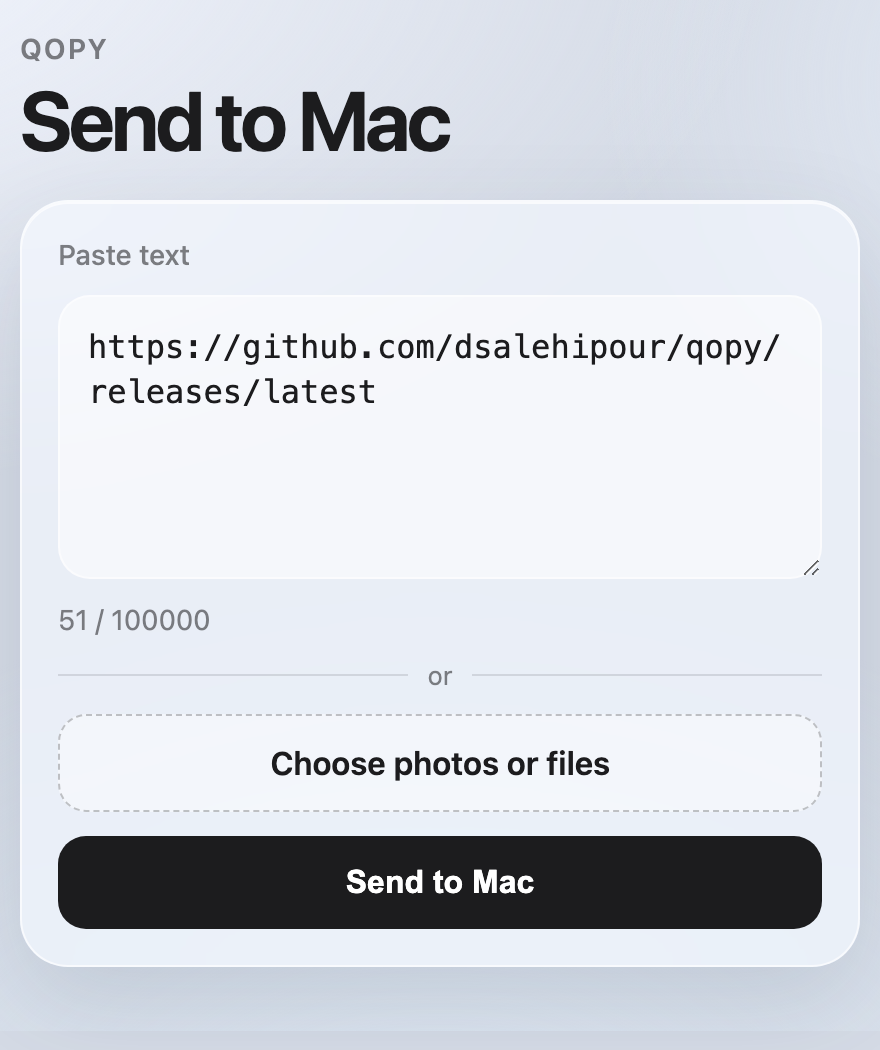
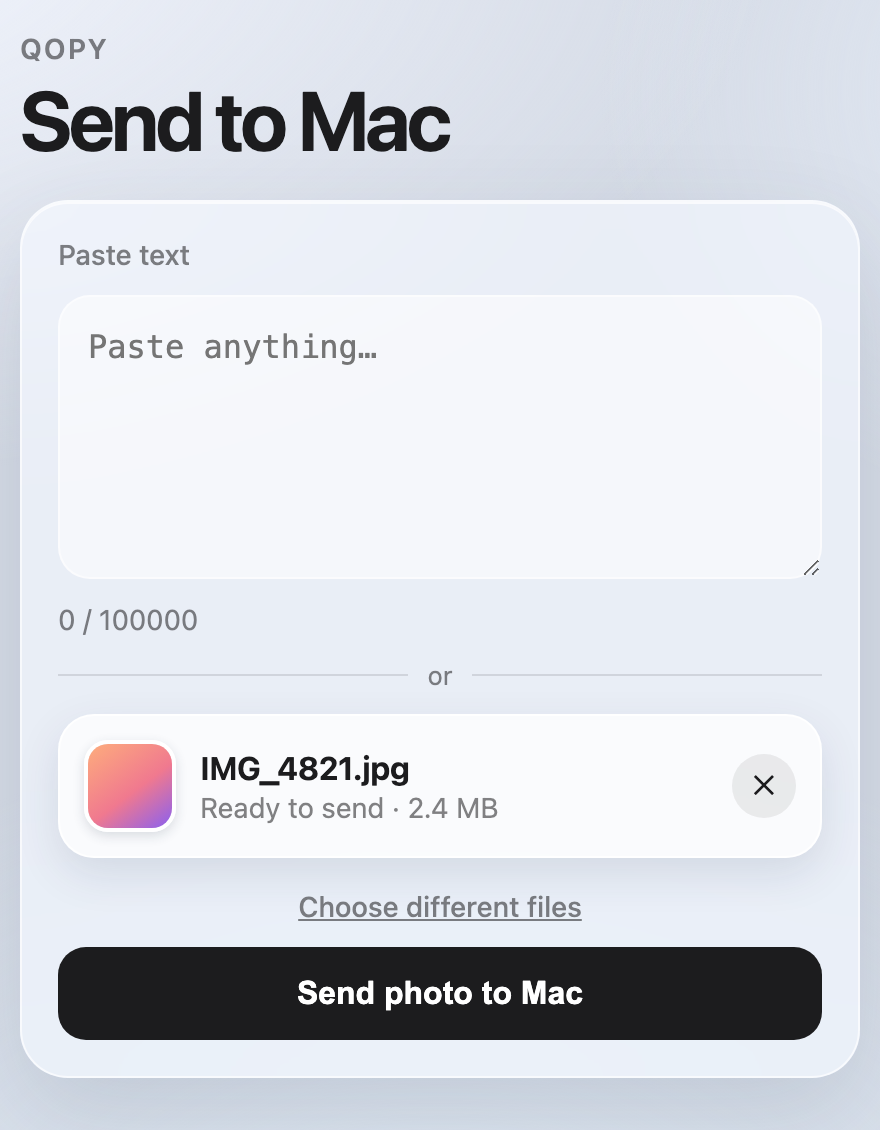
Make a picked file look picked on the phone page
Choosing a file was the main action but showed up as one line of grey text.
It now renders a card: thumbnail preview, name, size, and "Ready to send",
with a clear button. The picker demotes itself to a "Choose different files"
link, and the send button says what it will do ("Send photo to Mac",
"Send 3 files to Mac") so the pending action is never in doubt.

- Image thumbnails come from object URLs, revoked on every re-render, and
  fall back to a document glyph if the browser cannot decode the format
- Past two files the stack becomes one preview plus a count, otherwise the
  thumbnails squeeze the name and size off a 375pt screen
- The subtitle leads with readiness so the size is what ellipsizes, not the
  verdict
- Typing text and picking files at once dims the text half, since files win

README screenshot now shows the selected state.

diff --git a/Web/app.js b/Web/app.js
@@ -1,13 +1,25 @@
 const MAX_BYTES = 100000;
 const MAX_UPLOAD_BYTES = 100 * 1024 * 1024;
 
+const textBlockEl = document.getElementById("text-block");
 const textEl = document.getElementById("text");
 const byteCountEl = document.getElementById("byte-count");
 const warnEl = document.getElementById("warn");
 const filesEl = document.getElementById("files");
-const fileListEl = document.getElementById("file-list");
+const pickerEl = document.getElementById("picker");
+const pickerLabelEl = document.getElementById("picker-label");
+const selectionEl = document.getElementById("selection");
+const thumbsEl = document.getElementById("thumbs");
+const selectionTitleEl = document.getElementById("selection-title");
+const selectionSubEl = document.getElementById("selection-sub");
+const clearBtn = document.getElementById("clear");
 const sendBtn = document.getElementById("send");
 const statusEl = document.getElementById("status");
+
+const DOC_GLYPH = `<svg viewBox="0 0 24 24" fill="none" stroke="currentColor" stroke-width="1.8"
+  stroke-linecap="round" stroke-linejoin="round"><path d="M14 3H7a2 2 0 0 0-2 2v14a2 2 0 0 0 2 2h10a2 2 0 0 0 2-2V8z"/><path d="M14 3v5h5"/></svg>`;
+
+let thumbURLs = [];
 
 function utf8Bytes(str) {
   return new TextEncoder().encode(str).length;
@@ -28,6 +40,66 @@ function setStatus(message) {
   statusEl.textContent = message || "";
 }
 
+function isImage(file) {
+  return (file.type || "").startsWith("image/");
+}
+
+function noun(files) {
+  const word = files.every(isImage) ? "photo" : "file";
+  return files.length === 1 ? word : `${files.length} ${word}s`;
+}
+
+function renderSelection(files, uploadBytes, uploadOver) {
+  thumbURLs.forEach(URL.revokeObjectURL);
+  thumbURLs = [];
+  thumbsEl.replaceChildren();
+
+  selectionEl.hidden = files.length === 0;
+  pickerEl.classList.toggle("compact", files.length > 0);
+  pickerLabelEl.textContent = files.length ? "Choose different files" : "Choose photos or files";
+  textBlockEl.classList.toggle("standby", files.length > 0 && textEl.value.trim().length > 0);
+  if (!files.length) return;
+
+  // At most two boxes wide: past two files it becomes one preview and a count,
+  // otherwise the stack eats the width the filename and size need.
+  const shown = files.length > 2 ? 1 : files.length;
+  files.slice(0, shown).forEach((file) => {
+    if (isImage(file)) {
+      const url = URL.createObjectURL(file);
+      thumbURLs.push(url);
+      const img = document.createElement("img");
+      img.className = "thumb";
+      img.src = url;
+      img.alt = "";
+      // HEIC and friends may not decode in every browser; fall back to the glyph.
+      img.addEventListener("error", () => img.replaceWith(glyphThumb()));
+      thumbsEl.append(img);
+    } else {
+      thumbsEl.append(glyphThumb());
+    }
+  });
+
+  if (files.length > shown) {
+    const more = document.createElement("div");
+    more.className = "thumb more";
+    more.textContent = `+${files.length - shown}`;
+    thumbsEl.append(more);
+  }
+
+  selectionTitleEl.textContent = files.length === 1 ? files[0].name : noun(files);
+  // Readiness first: on a narrow phone the size is what gets ellipsized, not the verdict.
+  selectionSubEl.textContent = uploadOver
+    ? `Too large · ${formatSize(uploadBytes)}`
+    : `Ready to send · ${formatSize(uploadBytes)}`;
+}
+
+function glyphThumb() {
+  const box = document.createElement("div");
+  box.className = "thumb glyph";
+  box.innerHTML = DOC_GLYPH;
+  return box;
+}
+
 function update() {
   const text = textEl.value;
   const bytes = utf8Bytes(text);
@@ -36,22 +108,14 @@ function update() {
 
   byteCountEl.textContent = `${bytes} / ${MAX_BYTES}`;
 
-  if (files.length === 1) {
-    fileListEl.textContent = `${files[0].name} (${formatSize(uploadBytes)})`;
-  } else if (files.length > 1) {
-    fileListEl.textContent = `${files.length} files (${formatSize(uploadBytes)})`;
-  }
-  fileListEl.hidden = files.length === 0;
-
   const textOver = bytes > MAX_BYTES;
   const uploadOver = uploadBytes > MAX_UPLOAD_BYTES;
-  warnEl.hidden = !textOver && !uploadOver;
-  warnEl.textContent = uploadOver
-    ? "Too large to send in one go."
-    : textOver
-      ? "Too long to send in one go."
-      : "";
+  warnEl.hidden = !textOver;
+  warnEl.textContent = textOver ? "Too long to send in one go." : "";
 
+  renderSelection(files, uploadBytes, uploadOver);
+
+  sendBtn.textContent = files.length ? `Send ${noun(files)} to Mac` : "Send to Mac";
   sendBtn.disabled = files.length
     ? uploadOver
     : textOver || text.trim().length === 0;
@@ -144,7 +208,15 @@ async function send() {
 textEl.addEventListener("input", update);
 textEl.addEventListener("change", update);
 textEl.addEventListener("paste", () => setTimeout(update, 0));
-filesEl.addEventListener("change", update);
+filesEl.addEventListener("change", () => {
+  setStatus("");
+  update();
+});
+clearBtn.addEventListener("click", () => {
+  filesEl.value = "";
+  setStatus("");
+  update();
+});
 sendBtn.addEventListener("click", send);
 
 update();

diff --git a/Web/style.css b/Web/style.css
@@ -127,6 +127,18 @@ button.primary:not(:disabled):active {
   transform: scale(0.98);
 }
 
+.text-block {
+  display: flex;
+  flex-direction: column;
+  gap: 12px;
+  transition: opacity 0.15s ease;
+}
+
+/* Files win when both are filled in, so the text half steps back. */
+.text-block.standby {
+  opacity: 0.4;
+}
+
 .rule {
   display: flex;
   align-items: center;
@@ -165,6 +177,106 @@ button.primary:not(:disabled):active {
   height: 1px;
   opacity: 0;
   pointer-events: none;
+}
+
+/* Once something is picked, the selection card is the loud element. */
+.picker.compact {
+  border: 0;
+  background: none;
+  padding: 4px 0 0;
+  font-size: 14px;
+  font-weight: 500;
+  color: var(--muted);
+  text-decoration: underline;
+}
+
+.selection {
+  display: flex;
+  align-items: center;
+  gap: 12px;
+  padding: 12px;
+  border-radius: 18px;
+  background: rgba(255, 255, 255, 0.78);
+  border: 1px solid rgba(255, 255, 255, 0.9);
+  box-shadow: 0 8px 22px rgba(40, 55, 80, 0.12);
+}
+
+.thumbs {
+  display: flex;
+  flex: none;
+}
+
+.thumb {
+  width: 46px;
+  height: 46px;
+  border-radius: 12px;
+  object-fit: cover;
+  background: rgba(28, 28, 30, 0.06);
+  border: 2px solid #fff;
+  box-shadow: 0 2px 6px rgba(40, 55, 80, 0.16);
+}
+
+.thumb + .thumb {
+  margin-left: -20px;
+}
+
+.thumb.glyph,
+.thumb.more {
+  display: grid;
+  place-items: center;
+  font-size: 13px;
+  font-weight: 700;
+  color: var(--muted);
+  background: rgba(255, 255, 255, 0.92);
+}
+
+.thumb.glyph svg {
+  width: 26px;
+  height: 26px;
+  opacity: 0.55;
+}
+
+.selection-text {
+  display: flex;
+  flex-direction: column;
+  gap: 2px;
+  min-width: 0;
+  flex: 1;
+}
+
+.selection-title {
+  font-size: 16px;
+  font-weight: 650;
+  letter-spacing: -0.01em;
+  overflow: hidden;
+  text-overflow: ellipsis;
+  white-space: nowrap;
+}
+
+.selection-sub {
+  font-size: 14px;
+  color: var(--muted);
+  overflow: hidden;
+  text-overflow: ellipsis;
+  white-space: nowrap;
+}
+
+.clear {
+  appearance: none;
+  flex: none;
+  width: 32px;
+  height: 32px;
+  border: 0;
+  border-radius: 50%;
+  background: rgba(28, 28, 30, 0.08);
+  color: var(--ink);
+  font-size: 14px;
+  line-height: 1;
+  cursor: pointer;
+}
+
+.clear:active {
+  transform: scale(0.94);
 }
 
 .hint {

diff --git a/Web/index.html b/Web/index.html
@@ -17,20 +17,30 @@
     </header>
 
     <section class="glass card">
-      <label class="field-label" for="text">Paste text</label>
-      <textarea id="text" rows="5" placeholder="Paste anything…" autofocus></textarea>
-      <div class="meta">
-        <span id="byte-count">0 / 100000</span>
-        <span id="warn" class="warn" hidden></span>
+      <div id="text-block" class="text-block">
+        <label class="field-label" for="text">Paste text</label>
+        <textarea id="text" rows="5" placeholder="Paste anything…" autofocus></textarea>
+        <div class="meta">
+          <span id="byte-count">0 / 100000</span>
+          <span id="warn" class="warn" hidden></span>
+        </div>
       </div>
 
       <div class="rule"><span>or</span></div>
 
-      <label class="picker" for="files">
+      <div id="selection" class="selection" hidden>
+        <div id="thumbs" class="thumbs"></div>
+        <div class="selection-text">
+          <span id="selection-title" class="selection-title"></span>
+          <span id="selection-sub" class="selection-sub"></span>
+        </div>
+        <button id="clear" class="clear" type="button" aria-label="Remove selected files">✕</button>
+      </div>
+
+      <label id="picker" class="picker" for="files">
         <input id="files" type="file" multiple>
-        <span>Choose photos or files</span>
+        <span id="picker-label">Choose photos or files</span>
       </label>
-      <p id="file-list" class="hint" hidden></p>
 
       <button id="send" class="primary" type="button" disabled>Send to Mac</button>
       <p id="status" class="hint" hidden></p>

diff --git a/README.md b/README.md
@@ -66,7 +66,7 @@ the signature stable. Grant permissions once after the first stably-signed build
 
 <div align="center">
 
-<img src="assets/phone-page.png" alt="The Qopy page on a phone: a text box with a pasted link, a Choose photos or files picker, and a Send to Mac button" width="300">
+<img src="assets/phone-page.png" alt="The Qopy page on a phone with a photo selected: a thumbnail, the filename IMG_4821.jpg, Ready to send with the file size, and a Send photo to Mac button" width="300">
 
 </div>
 
